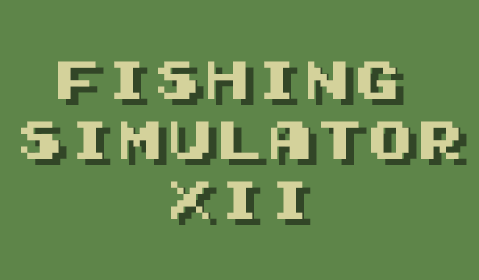
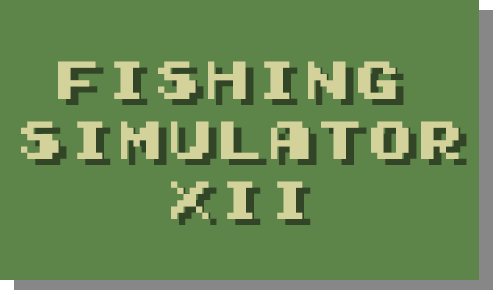
jokhj

diff --git a/Jeu de combat avec moteur/Game1.cs b/Jeu de combat avec moteur/Game1.cs
@@ -90,9 +90,18 @@ namespace Jeu_de_combat_avec_moteur
         Texture2D flash;
         Texture2D eyes_joueur;
         Texture2D eyes_IA;
+<<<<<<< Updated upstream
+=======
+<<<<<<< HEAD
+=======
+>>>>>>> Stashed changes
 =======
 
         Texture2D def;
+>>>>>>> Stashed changes
+<<<<<<< Updated upstream
+=======
+>>>>>>> a585345519799b93f414942a115d0499d5edb78b
 >>>>>>> Stashed changes
 
         Texture2D boutton_att;
@@ -116,7 +125,20 @@ namespace Jeu_de_combat_avec_moteur
         Texture2D bg_selec_perso;
         Texture2D bg_start;
 
+<<<<<<< Updated upstream
         SoundEffectInstance start_song;
+=======
+<<<<<<< HEAD
+<<<<<<< HEAD
+        Texture2D nom_du_jeu;
+
+=======
+        SoundEffectInstance start_song;
+>>>>>>> 80b28620b33da2528a91881855b6a8298c9117ad
+=======
+        SoundEffectInstance start_song;
+>>>>>>> a585345519799b93f414942a115d0499d5edb78b
+>>>>>>> Stashed changes
         SoundEffectInstance selection_song;
         SoundEffectInstance fight_song;
 
@@ -171,9 +193,13 @@ namespace Jeu_de_combat_avec_moteur
         System.Numerics.Vector2 textbox = new System.Numerics.Vector2(390, 605);
         System.Numerics.Vector2 textbox2 = new System.Numerics.Vector2(390, 655);
         System.Numerics.Vector2 endTextPos = new System.Numerics.Vector2(250, 160);
+        System.Numerics.Vector2 namePos = new System.Numerics.Vector2(300, 200);
 
 
+<<<<<<< Updated upstream
 
+=======
+>>>>>>> Stashed changes
 =======
 >>>>>>> Stashed changes
         System.Numerics.Vector2 animation_origine_pos;
@@ -249,6 +275,8 @@ namespace Jeu_de_combat_avec_moteur
             bg_ecrand_de_fin = Content.Load<Texture2D>("bg ecran de fin");
             bg_selec_perso = Content.Load<Texture2D>("bg choix persos");
             bg_start = Content.Load<Texture2D>("bg start");
+
+            nom_du_jeu = Content.Load<Texture2D>("name of the game");
 
             font = Content.Load<SpriteFont>("Font");
             endFont = Content.Load<SpriteFont>("EndFont");
@@ -1157,11 +1185,20 @@ namespace Jeu_de_combat_avec_moteur
                 {
                     restart();
                     screen = "menu";
+<<<<<<< Updated upstream
+=======
+<<<<<<< HEAD
+=======
+>>>>>>> Stashed changes
 =======
                 // Code à executer si l'on se trouve dans l'écran de fin
                 else if (screen == "end") 
                 { 
 
+>>>>>>> Stashed changes
+<<<<<<< Updated upstream
+=======
+>>>>>>> a585345519799b93f414942a115d0499d5edb78b
 >>>>>>> Stashed changes
                 }
             }
@@ -1184,10 +1221,18 @@ namespace Jeu_de_combat_avec_moteur
 <<<<<<< Updated upstream
                 _spriteBatch.Draw(slider_button, slider_button_pos, Color.White);
                 _spriteBatch.Draw(button_play, boutton_start_pos, Color.White);
+<<<<<<< HEAD
+                _spriteBatch.Draw(nom_du_jeu, namePos, Color.White);
+                //_spriteBatch.DrawString(endFont, "  Fishing\nSimulator\n      XII", new System.Numerics.Vector2(240, 200), Color.GreenYellow);
+=======
                 _spriteBatch.DrawString(endFont, "  Fishing\nSimulator\n      XII", new System.Numerics.Vector2(240, 200), Color.GreenYellow);
 =======
                 _spriteBatch.Draw(button_start, boutton_start_pos, Color.White);
                 
+>>>>>>> Stashed changes
+<<<<<<< Updated upstream
+=======
+>>>>>>> a585345519799b93f414942a115d0499d5edb78b
 >>>>>>> Stashed changes
                 _spriteBatch.End();
             }
@@ -1543,17 +1588,31 @@ namespace Jeu_de_combat_avec_moteur
                         _spriteBatch.Draw(healthTexture, animation_pos, Color.White);
                         _spriteBatch.End();
                     }
+<<<<<<< Updated upstream
+                }
+
+=======
+=======
+<<<<<<< HEAD
                 }
 
 =======
                 }
 
+=======
+>>>>>>> Stashed changes
+                }
 
 
 
 
 
 
+
+>>>>>>> Stashed changes
+<<<<<<< Updated upstream
+=======
+>>>>>>> a585345519799b93f414942a115d0499d5edb78b
 >>>>>>> Stashed changes
             }
             else if (screen == "end")
